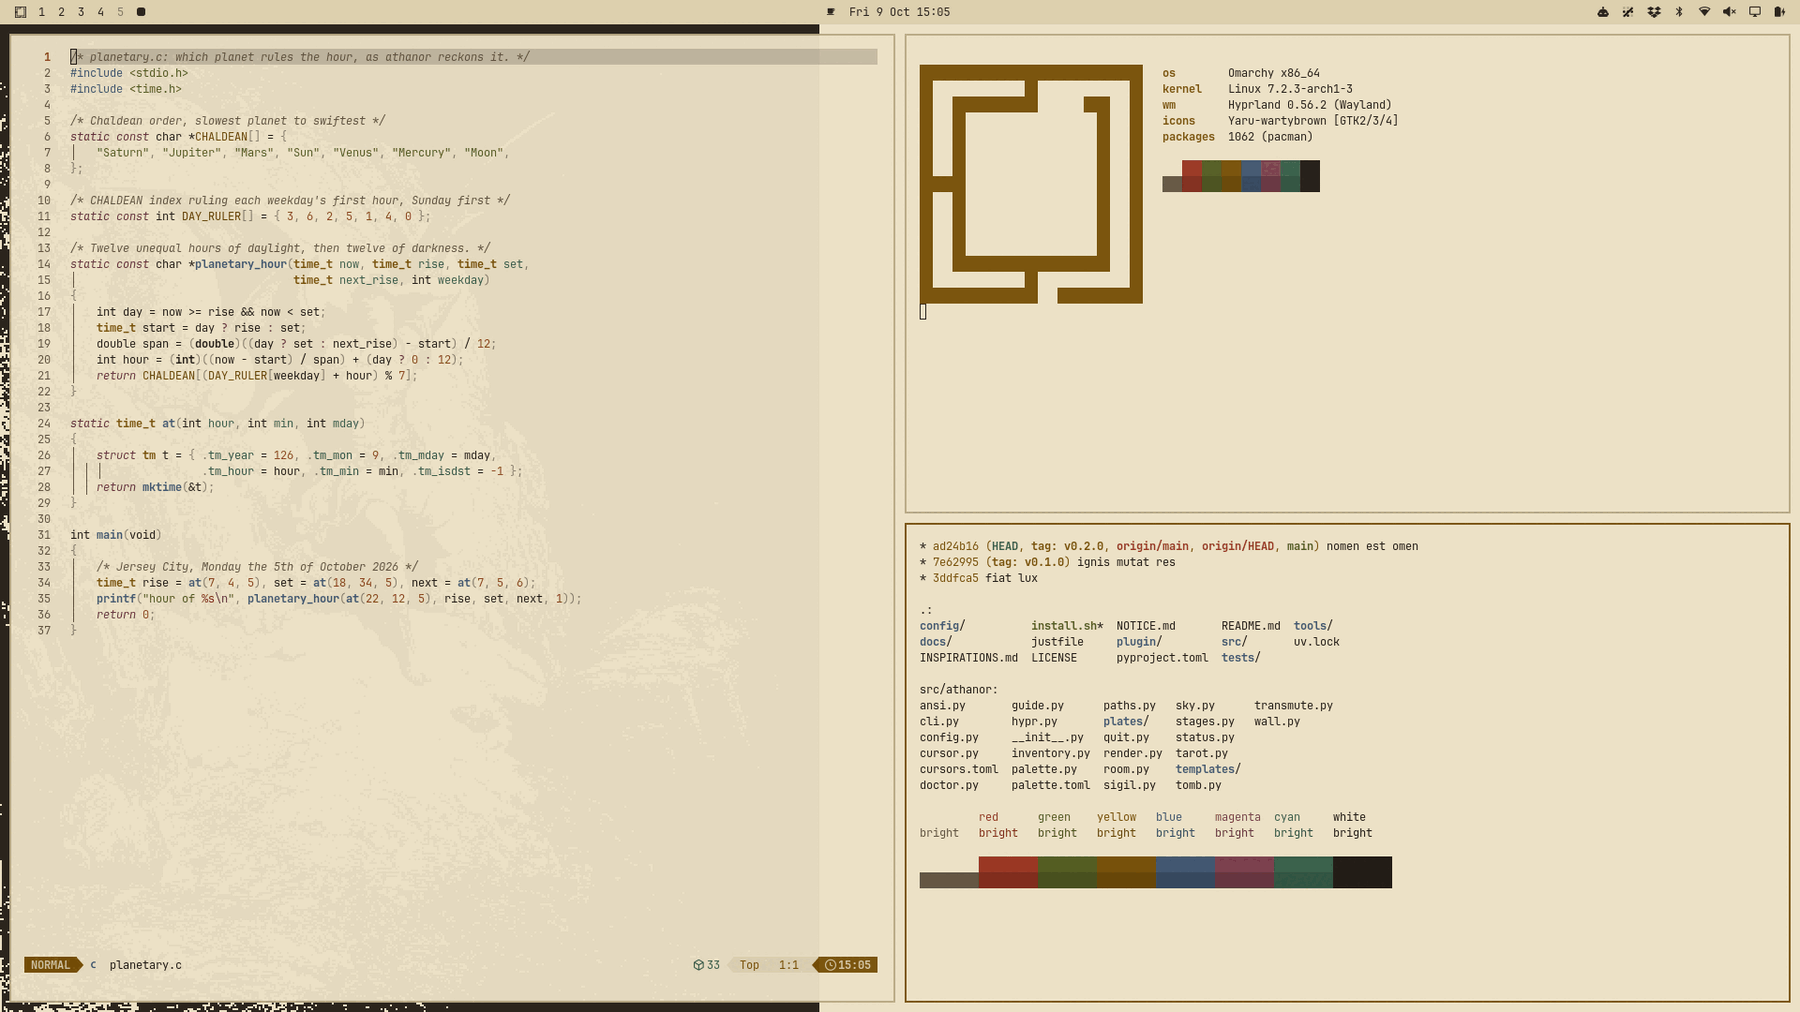
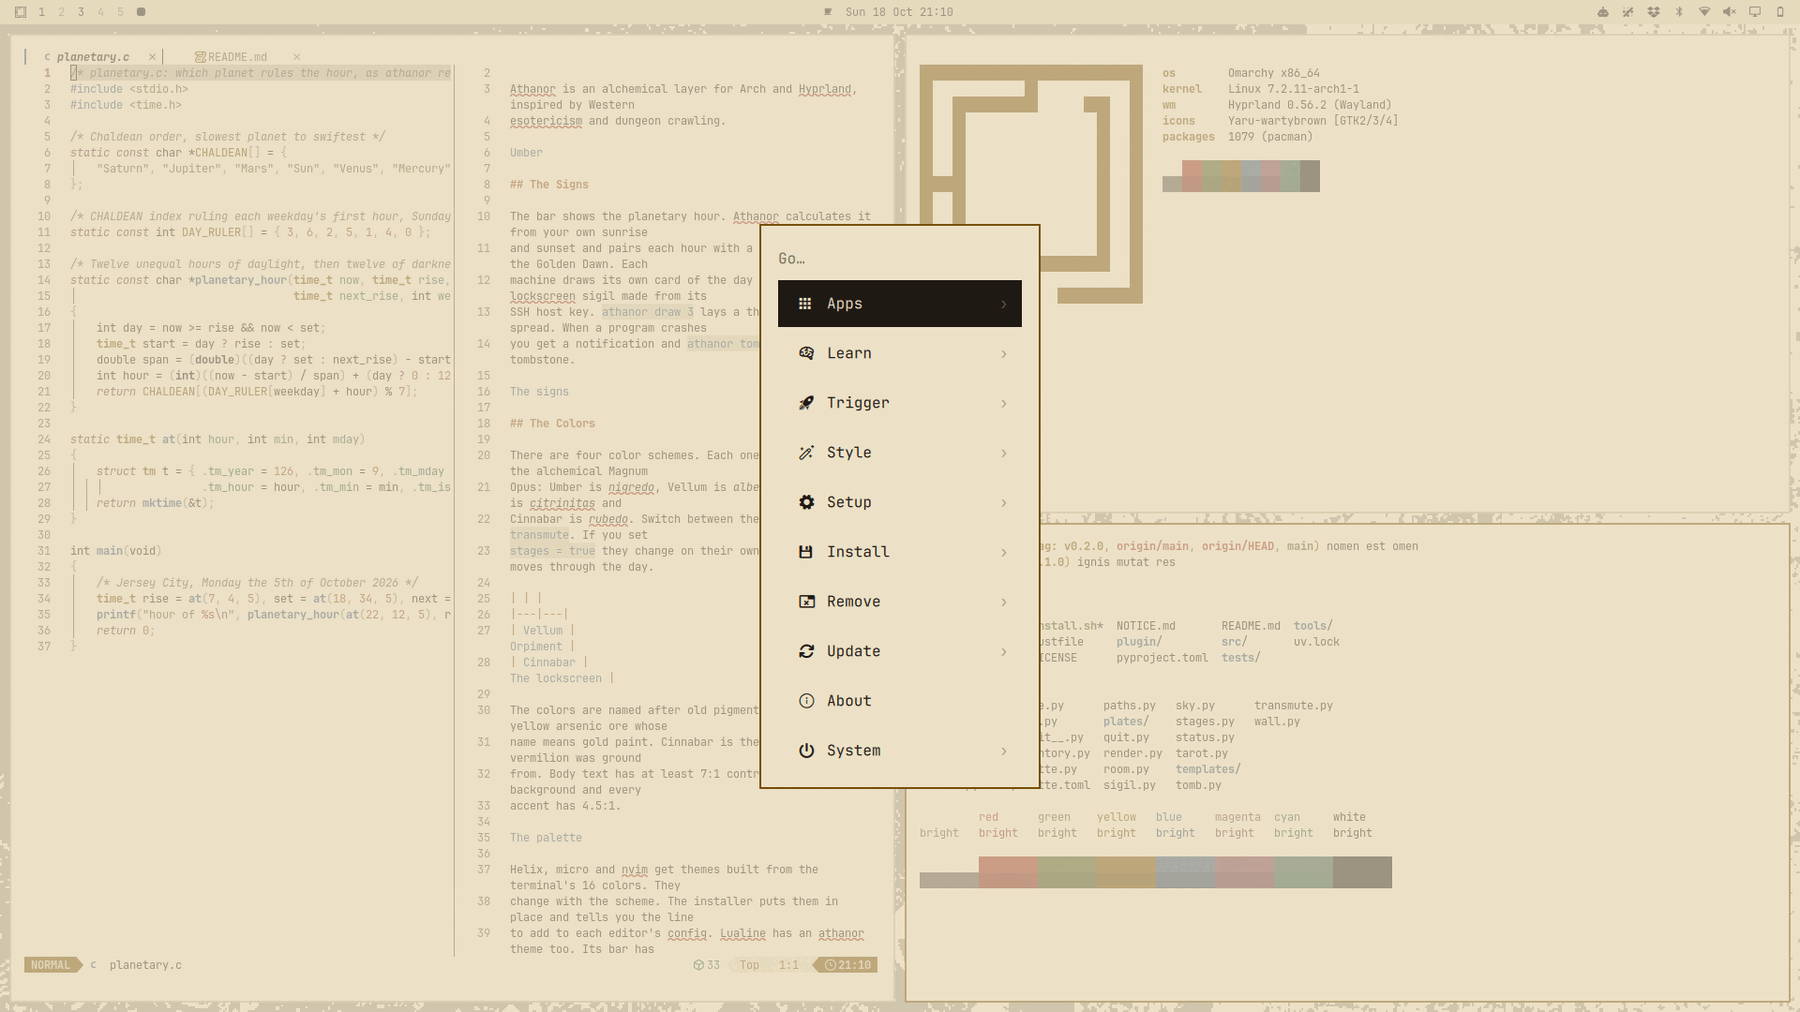
Phase 5: previews that show the shell
The theme switcher previews now show the Omarchy menu card, which is where
these themes differ from a plain colors.toml theme: opaque card, 2px accent
rule, inverse selected row. shoot-previews.sh summons the menu for the
shot and closes it afterwards and on any abort. The menu is a layer
surface, so the three-pane guard is unchanged.

Neovim opens Athanor's planetary.c and README side by side, so the editor
pane isn't mostly empty. Both previews were retaken with the Phase 4
colors: Vellum's new accent on the menu rule and the darker plate ink.
The OCR guard passed on both.

diff --git a/athanor_omarchy/readme.py b/athanor_omarchy/readme.py
@@ -54,7 +54,7 @@ Athanor's four color schemes are the stages of the Magnum Opus. {label} is
 [Athanor {o_label}]({REPO.format(other)})
 (*{o_stage}*).
 
-![Athanor {label} desktop with Neovim, fastfetch and the terminal palette](preview.png)
+![Athanor {label} desktop with the Omarchy menu, Neovim, fastfetch and the terminal palette](preview.png)
 
 ## Install
 

diff --git a/README.md b/README.md
@@ -68,9 +68,10 @@ scripts/shoot-previews.sh vellum
 
 This takes each theme's `preview.png` on the real desktop. It applies the
 build as a temporary `athanor-<theme>-preview` theme and opens three panes on
-an empty workspace 9: Neovim with Athanor's `planetary.c`, a fastfetch that
-lists only software (`assets/preview/fastfetch.jsonc`), and Athanor's git
-history with the palette (`assets/preview/pane.sh`). It OCRs the shot and
+an empty workspace 9: Neovim with Athanor's `planetary.c` and README side by
+side, a fastfetch that lists only software (`assets/preview/fastfetch.jsonc`),
+and Athanor's git history with the palette (`assets/preview/pane.sh`), then
+summons the Omarchy menu so the shell styling is in the shot. It OCRs the shot and
 refuses to save it if your username, hostname, a home path or the hardware
 model shows up. It aborts if workspace 9 isn't empty or a pane lands
 elsewhere, and restores your workspace and theme when it exits. It needs a
